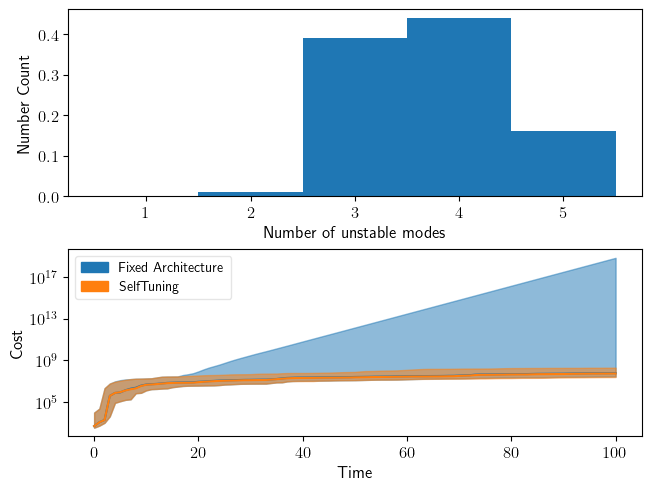
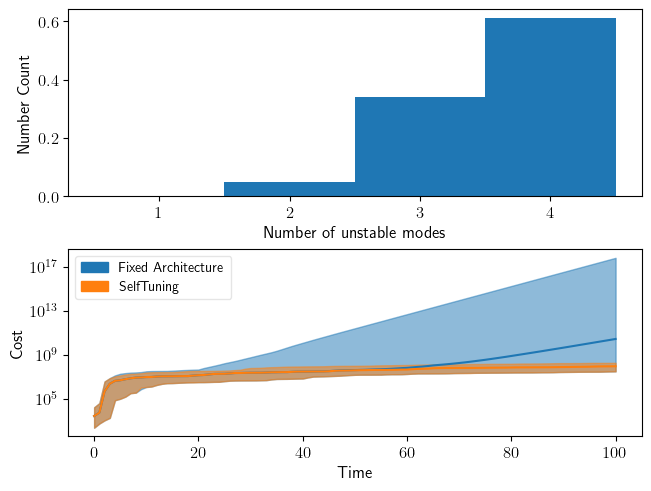
Code dump

diff --git a/greedy_architecture_combined.py b/greedy_architecture_combined.py
@@ -964,17 +964,21 @@ def cost_plots(cost, f_name=None, ax=None, plt_map=None):
         ax_cost.plot(range(0, T), cumulative_cost, label=i, c=plt_map[i]['c'], linestyle=plt_map[i]['line_style'], zorder=plt_map[i]['zorder'])
     ax_cost.set_ylabel('Cumulative\nCost')
     ax_cost.legend(loc='upper left')
-    improvement = 100*(tstep_cost['fixed']-tstep_cost['tuning'])/tstep_cost['fixed']
-    improvement_str = str(np.round(improvement, 2)) + r'\% improvement'
+    improvement = np.round(100*(tstep_cost['fixed']-tstep_cost['tuning'])/tstep_cost['fixed'], 2)
+    improvement_str = ''
+    if improvement < 100:
+        improvement_str = str(improvement) + r'\% improvement' + '\n'
+    improvement_str = improvement_str + 'Cost:' + np.format_float_scientific(tstep_cost['fixed'], precision=3, trim='0') + ' vs ' + np.format_float_scientific(tstep_cost['tuning'], precision=3, trim='0')
     print(improvement_str)
     # if improvement > 95:
     #     ax_cost.set_yscale('log')
     # else:
     # ax_cost.set_yscale('log')
     ax_cost.ticklabel_format(axis='y', style='sci', scilimits=(-4, 4))
-    ax_cost.text(T-35, 0, improvement_str)
     ax_cost.set_xlim(-1, 1+max([len(cost[i]) for i in cost]))
-
+    x_lims = ax_cost.get_xlim()
+    y_lims = ax_cost.get_ylim()
+    ax_cost.text(x_lims[0]+(0.22*(x_lims[1]-x_lims[0])), y_lims[0]+(0.65*(y_lims[1]-y_lims[0])), improvement_str)
     if ax is None:
         ax_cost.set_title('Cost comparison')
         ax_cost.set_xlabel('Time')
@@ -1040,7 +1044,7 @@ def simulate_fixed_architecture(S, print_check=True, multiprocess_check=False):
         for t in tqdm(range(0, T_sim), ncols=100, leave=False):
             S_fixed.cost_wrapper_enhanced_true()
             S_fixed.system_one_step_update_enhanced(t)
-    print('     Simulation Done')
+        print('         Simulation Done')
     return S_fixed
 
 
@@ -1065,7 +1069,7 @@ def simulate_selftuning_architecture(S, iterations_per_step=1, changes_per_itera
             S_tuning.cost_wrapper_enhanced_true()
             S_tuning.system_one_step_update_enhanced(t)
             S_tuning = dc(greedy_simultaneous(S_tuning, iterations=iterations_per_step, changes_per_iteration=changes_per_iteration)['work_set'])
-    print('     Simulation Done')
+        print('         Simulation Done')
     return S_tuning
 
 
@@ -1231,7 +1235,7 @@ def time_axis_plot(model):
     S_tuning.plot_architecture_history(ax_in={'B': ax_architecture_B, 'C': ax_architecture_C}, plt_map=plt_map)
 
     S_tuning.plot_network(ax_in=ax_network_nodes, node_filter='dynamics')
-    ax_network_nodes.set_title(S.model_name)
+    ax_network_nodes.set_title(S.model_name + '\nUnstable modes:' + str(S_tuning.dynamics['n_unstable']))
     # S_tuning.plot_dynamics(ax_in=ax_network_nodes)
     S_tuning.plot_network(ax_in=ax_tstep_architecture, node_filter='architecture')
 

diff --git a/casetest_greedy_architecture_combined_multistep.py b/casetest_greedy_architecture_combined_multistep.py
@@ -3,8 +3,8 @@ from copy import deepcopy as dc
 
 if __name__ == "__main__":
 
-    n = 50
-    rho = 10
+    n = 30
+    rho = 3
     Tp = 10
     n_arch = 3
 
@@ -22,8 +22,8 @@ if __name__ == "__main__":
 
     # # Model update:
     # S.simulation_parameters['T_predict'] = 30
-    # S.rescale_dynamics(8)
-    # S.model_rename()
+    S.rescale_dynamics(5)
+    S.model_rename()
 
     print('Simulating Model: ', S.model_name)
     print('Number of unstable modes: ', S.dynamics['n_unstable'])

diff --git a/casetest_plot_statistics.py b/casetest_plot_statistics.py
@@ -4,10 +4,10 @@ if __name__ == "__main__":
 
     n_samples = 100
 
-    n = 50
-    rho = 7
+    n = 20
+    rho = 4
     Tp = 10
-    n_arch = 4
+    n_arch = 2
     n_arch_B = n_arch
     n_arch_C = n_arch
     # test_model = 'combined'

diff --git a/casetest_statistics_multi.py b/casetest_statistics_multi.py
@@ -10,10 +10,10 @@ import numpy as np
 
 
 def sys_gen():
-    n = 50
-    rho = 7
+    n = 20
+    rho = 4
     Tp = 10
-    n_arch = 4
+    n_arch = 2
     n_arch_B = n_arch
     n_arch_C = n_arch
     # test_model = 'combined'

diff --git a/casetest_model_gen.py b/casetest_model_gen.py
@@ -6,8 +6,8 @@ if __name__ == "__main__":
 
     print('Generating Model')
 
-    n = 50
-    rho = 10
+    n = 30
+    rho = 3
     Tp = 10
     n_arch = 3
     n_arch_B = n_arch

diff --git a/casetest_plot.py b/casetest_plot.py
@@ -2,8 +2,8 @@ import greedy_architecture_combined as gac
 
 if __name__ == "__main__":
 
-    n = 50
-    rho = 10
+    n = 30
+    rho = 5
     Tp = 10
     n_arch = 3
 
